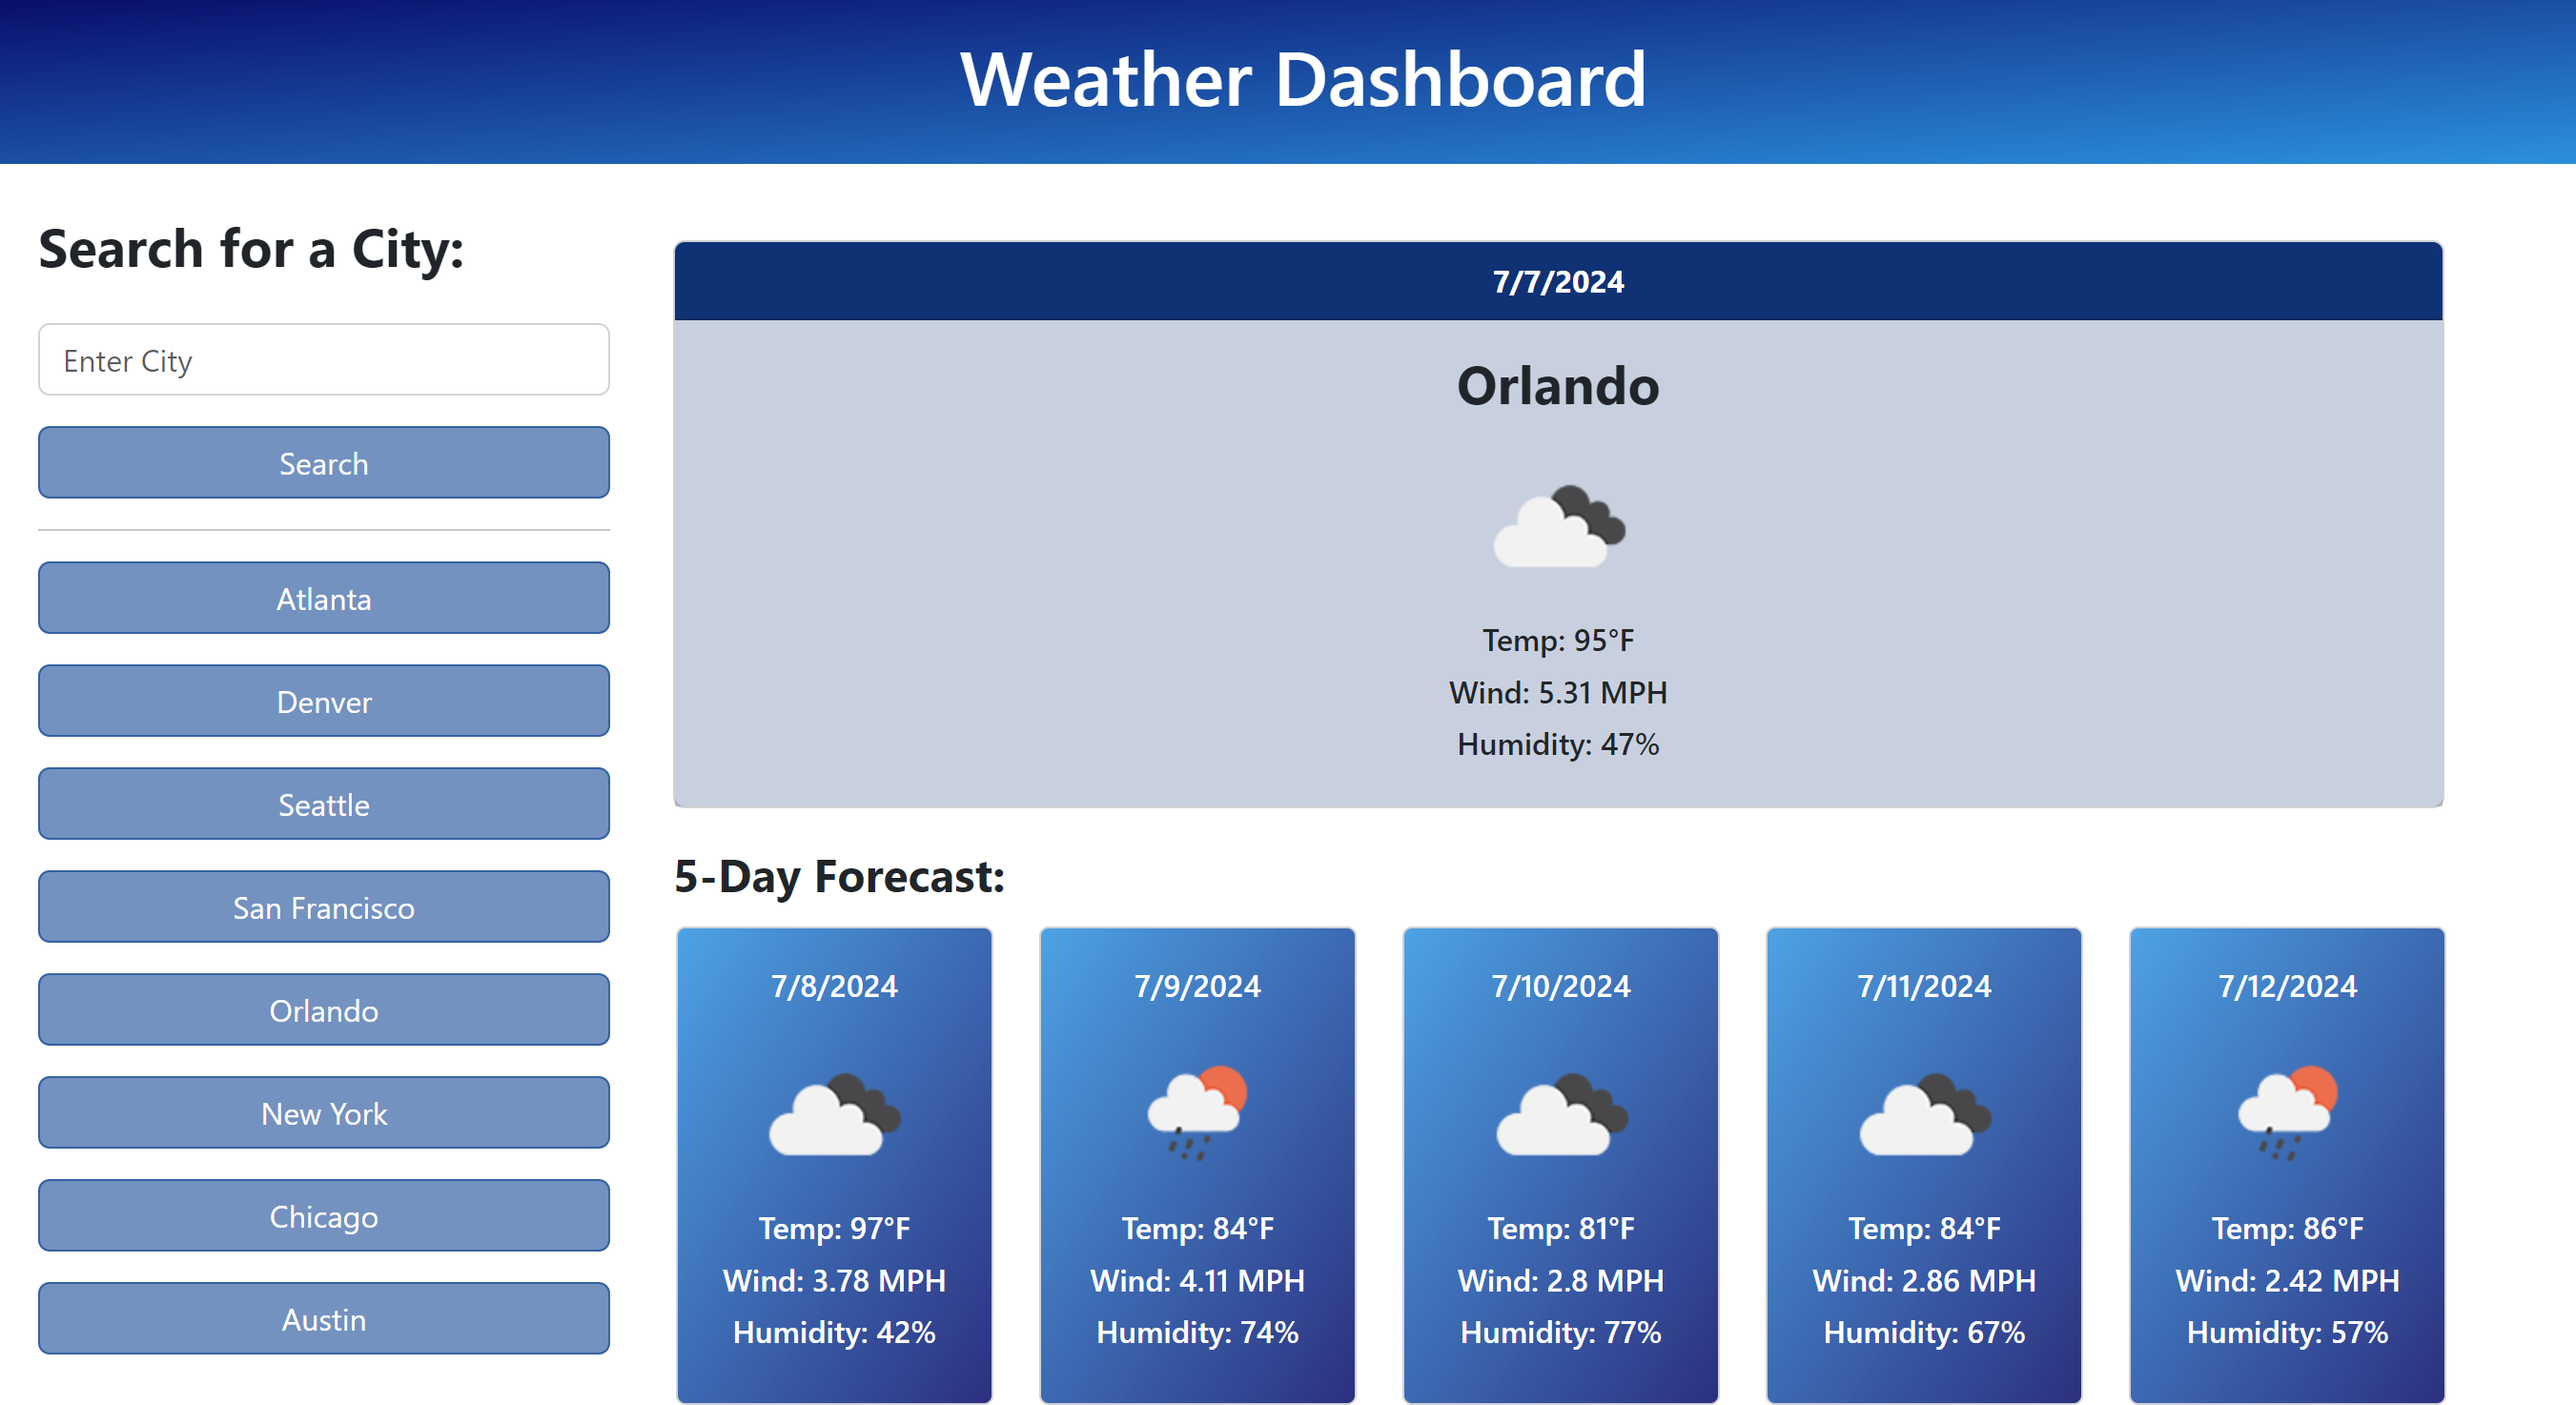
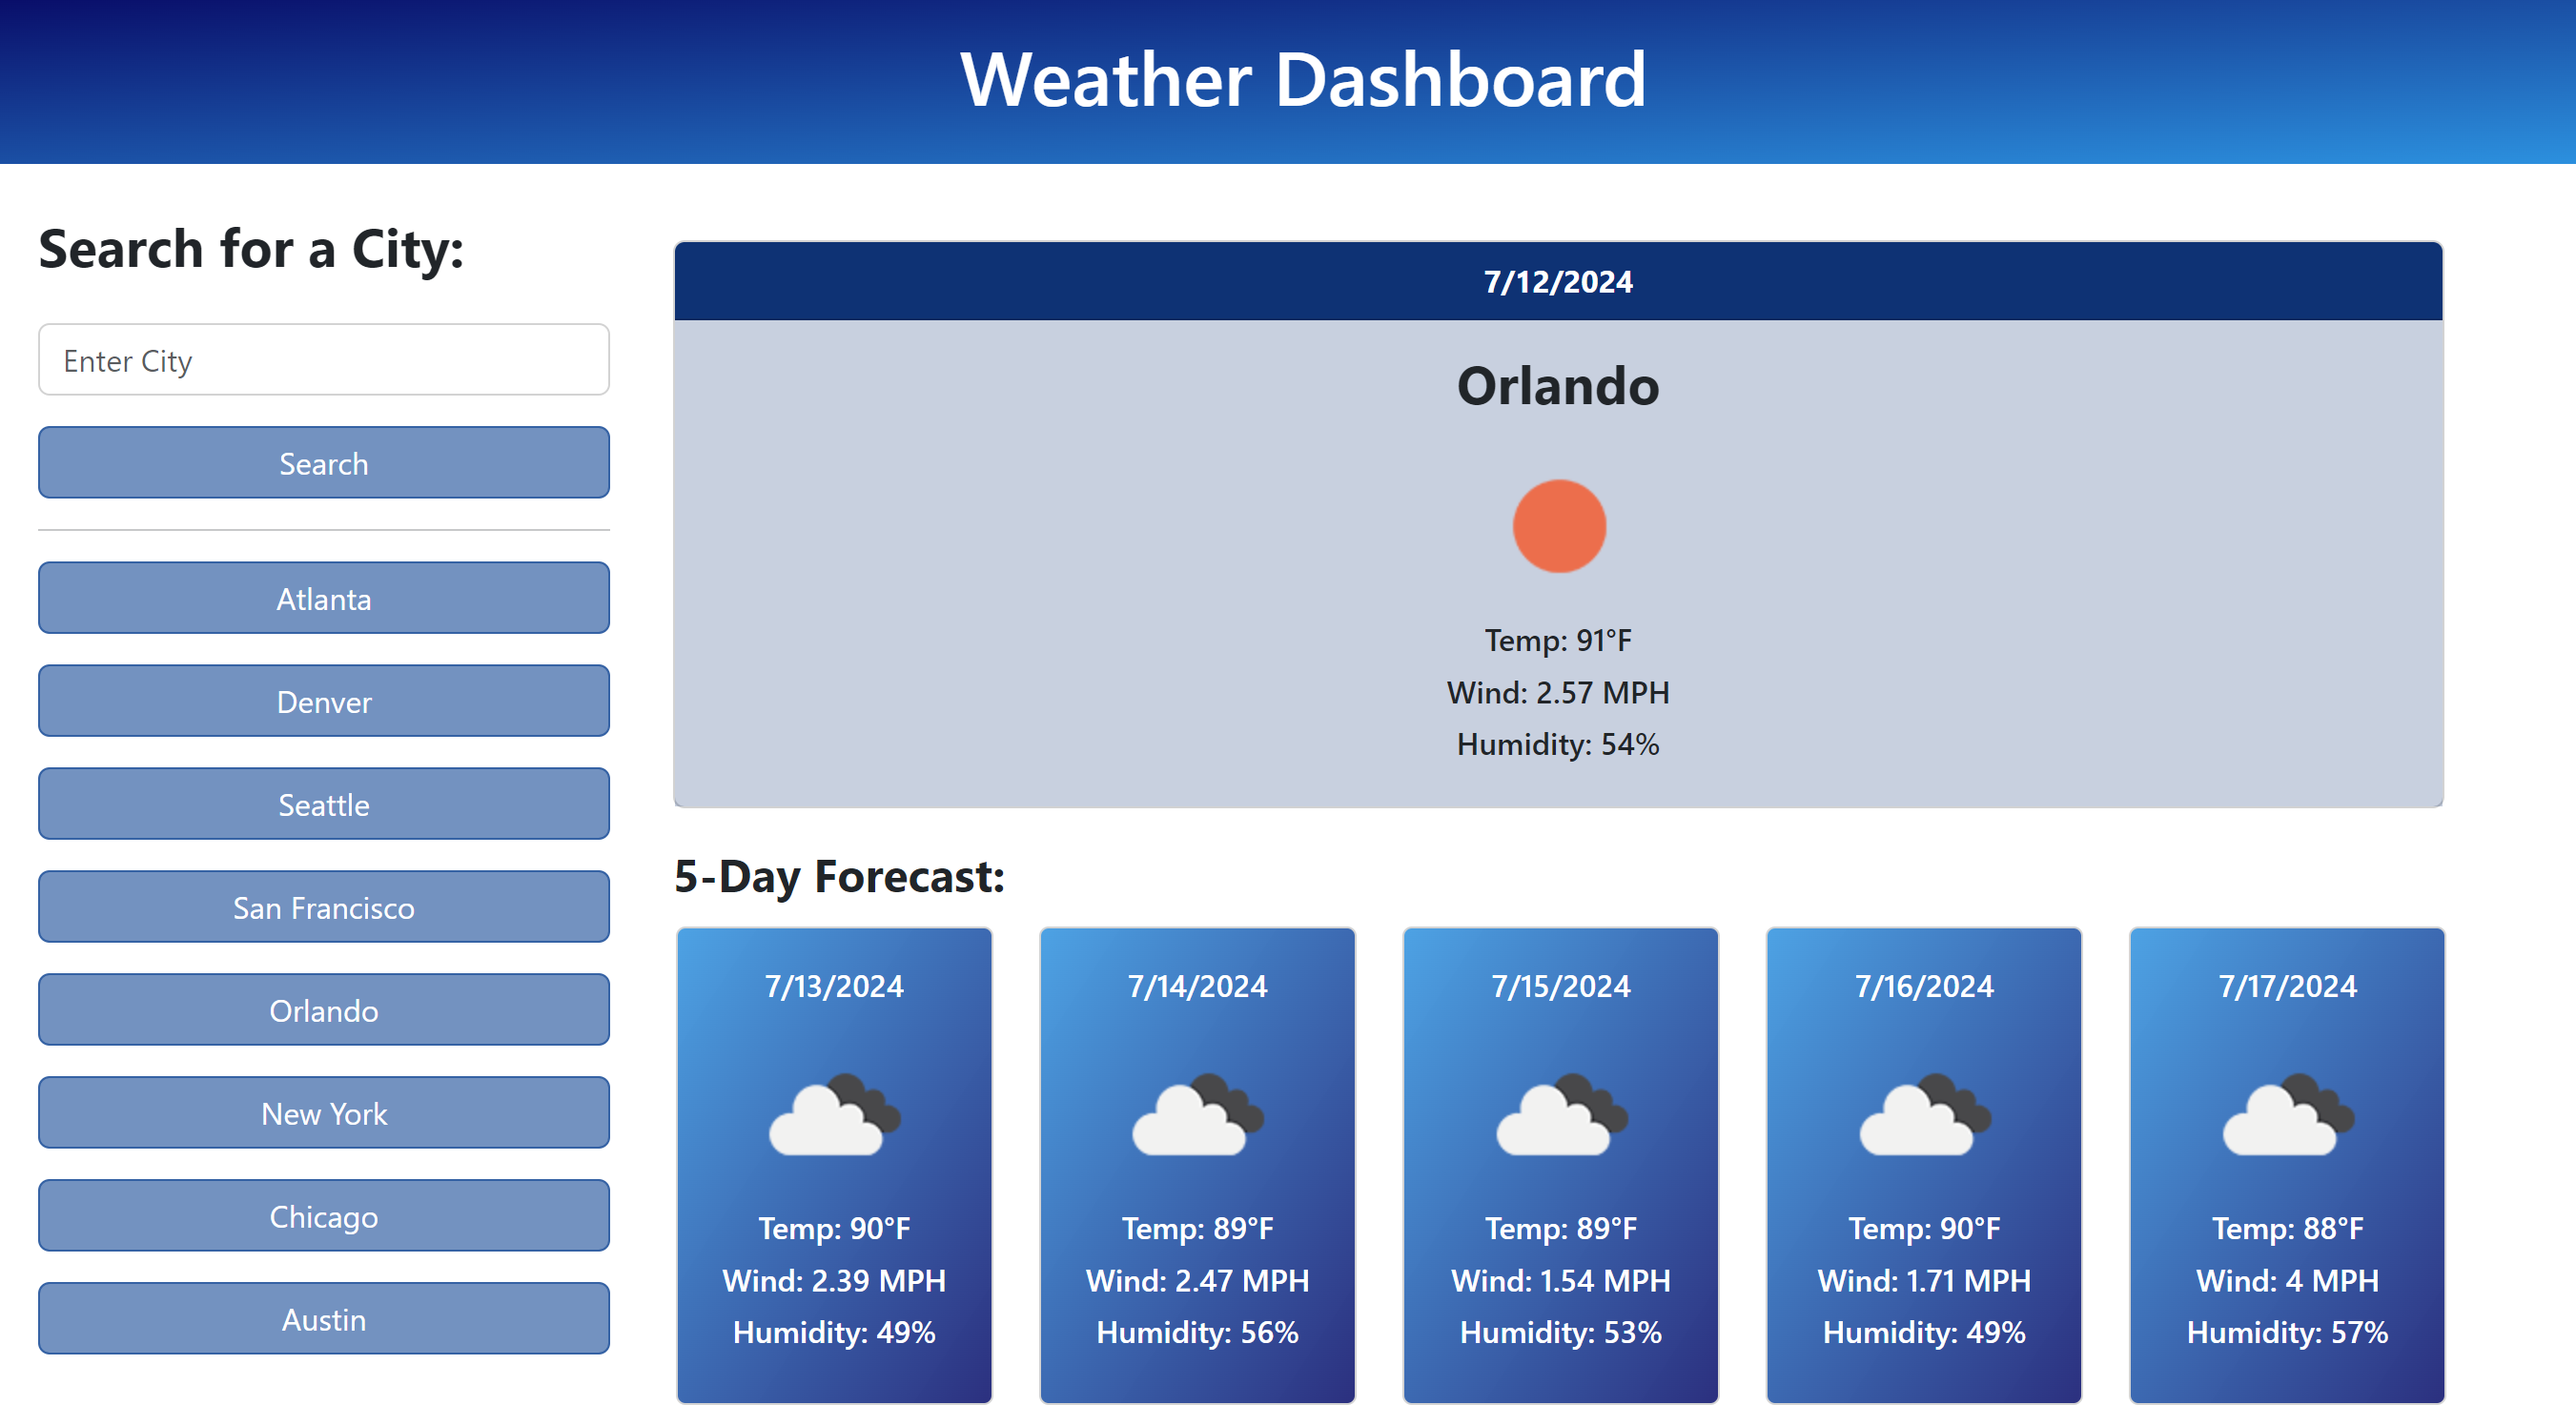
updated the README, deleted comments in index.html and changed the getCoordinates function name to currentWeatherData and changed the url being used

diff --git a/assets/js/script.js b/assets/js/script.js
@@ -8,16 +8,16 @@ const date = document.querySelector('.card-header');
 const apiKey = `c56024321501e8e5ba43555acb3aab75`;
 let city;
 
-//Get the coordinates of the cities
-const getCoordinates = async (city) => {
-    let coordinates;
-    const url = `http://api.openweathermap.org/geo/1.0/direct?q=${city}&limit=1&appid=${apiKey}`
+//Gets the current weather data of the cities
+const currentWeatherData = async (city) => {
+    let currentData ;
+    const url = `https://api.openweathermap.org/data/2.5/weather?q=${city}&appid=${apiKey}`
 
     try {
         const response = await fetch(url);
         const data = await response.json();
-        checkForDuplicateCity(data[0].name);
-        return coordinates = data[0]
+        checkForDuplicateCity(data.name);
+        return currentData = data;
     } catch (error) {
         console.error(error.message);
     }
@@ -26,17 +26,17 @@ const getCoordinates = async (city) => {
 //Adds the searched cities to local storage
 const searchHistoryInfo = (city) => {
     let searchHistory = JSON.parse(localStorage.getItem('searchHistoryCities')) || [];
-    console.log(searchHistory);
+    // console.log(searchHistory);
     let userCities = { searchedCity: city };
 
     searchHistory.push(userCities)
-    console.log(searchHistory);
+    // console.log(searchHistory);
     localStorage.setItem("searchHistoryCities", JSON.stringify(searchHistory));
 };
 
 //Displays the weather forecast for a city when that search history button is clicked
 function click(city) {
-    console.log(city)
+    // console.log(city)
     getForecast(city);
 };
 
@@ -83,20 +83,19 @@ const dailyForecastMarkdown = (data) => {
 //Uses the markdown to display the weather data
 const diplayForecast = (current, forecastArray) => {
     let dailyForecast = '';
-    const currentWeather = current.list[0];
-    const dt = currentWeather.dt;
+    const dt = current.dt;
     const currentDate = (new Date(dt * 1000)).toLocaleDateString();
-    const icon = currentWeather.weather[0].icon;
-    const temp = Math.floor(Math.round((currentWeather.main.temp - 273.15) * 9 / 5 + 32));
+    const icon = current.weather[0].icon;
+    const temp = Math.floor(Math.round((current.main.temp - 273.15) * 9 / 5 + 32));
 
     //Displays the current weather data in the card body
     date.innerText = `${currentDate}`
     displayCurrentWeather.innerHTML = `
-        <h3 class="card-title">${current.city.name}</h3>
+        <h3 class="card-title">${current.name}</h3>
         <img src="https://openweathermap.org/img/wn/${icon}@2x.png" alt="Weather Icon">
         <h6>Temp: ${temp}°F</h6>
-        <h6>Wind: ${currentWeather.wind.speed} MPH</h6>
-        <h6>Humidity: ${currentWeather.main.humidity}%</h6>
+        <h6>Wind: ${current.wind.speed} MPH</h6>
+        <h6>Humidity: ${current.main.humidity}%</h6>
         `
     //Displays the five day forecast below the card body
     forecastArray.forEach((data) => {
@@ -111,10 +110,10 @@ const diplayForecast = (current, forecastArray) => {
 
 //Gets the 5 day forecast
 const getForecast = async (city) => {
-    //Uses the coordinates to get the weather forecast
-    const coordinateData = await getCoordinates(city);
-    const lat = coordinateData.lat;
-    const lon = coordinateData.lon;
+    //Uses the coordinates to get the daily forecast
+    const currentWeather = await currentWeatherData(city);
+    const lat = currentWeather.coord.lat;
+    const lon = currentWeather.coord.lon;
 
     const url = `http://api.openweathermap.org/data/2.5/forecast?lat=${lat}&lon=${lon}&appid=${apiKey}`;
 
@@ -132,7 +131,7 @@ const getForecast = async (city) => {
             data.list[31],
             data.list[39]
         ];
-        diplayForecast(data, forecastArray);
+        diplayForecast(currentWeather, forecastArray);
     } catch (error) {
         console.error(error.message);
     }
@@ -144,7 +143,7 @@ const checkForDuplicateCity = (city) => {
     if (historyInfo === null) {
         searchHistoryInfo(city);
     } else {
-        console.log(historyInfo)
+        // console.log(historyInfo)
         const savedCity = historyInfo.find(({ searchedCity }) => searchedCity === city)
         console.log(historyInfo.find(({ searchedCity }) => searchedCity === city))
         if (savedCity === undefined) {

diff --git a/index.html b/index.html
@@ -31,16 +31,7 @@
             </form>
             <hr>
 
-            <div class="city-buttons d-grid gap-3 col-6 ">
-                <!-- <button class="atlanta btn-color btn btn-primary" type="button">Atlanta</button> -->
-                <!-- <button class="denver btn btn-primary" type="button">Denver</button>
-                <button class="seattle btn btn-primary" type="button">Seattle</button>
-                <button class="san-francisco  btn btn-primary" type="button">San Francisco</button>
-                <button class="orlando btn btn-primary" type="button">Orlando</button>
-                <button class="new-york btn btn-primary" type="button">New York</button>
-                <button class="chicago btn btn-primary" type="button">Chicago</button>
-                <button class="austin btn btn-primary" type="button">Austin</button> -->
-            </div>
+            <div class="city-buttons d-grid gap-3 col-6 "></div>
 
         </aside>
 

diff --git a/README.md b/README.md
@@ -2,17 +2,13 @@
 
 ## Description
 
-Provide a short description explaining the what, why, and how of your project. Use the following questions as a guide:
+The motivation behind this project was to create an application that allows the user to view the daily forecast for their city and other cities they choose to search for. By creating this project I was able to gain more experience with server-side APIs in order to retrieve the weather data. That data was then used to dynamically update the HTML and CSS so the weather forecast could be displayed to the user. This also allowed me to use local storage to store persistent data of the searched cities and then display them on the search history.
 
-- What was your motivation?
-- Why did you build this project? (Note: the answer is not "Because it was a homework assignment.")
-- What problem does it solve?
-- What did you learn?
 
 ## Usage
 
-Provide instructions and examples for use. Include screenshots as needed.
+After the user inputs a city into the search field, they are presented with the current weather conditions and a 5-day forecast. Once the weather conditions are displayed, the user is able to see the city name and date along with the temperature, humidity, and wind speed. That city is also added to the search history on the left-hand side. If the user clicks on a city in the search history, they are presented with that the forecast for that city.
 
-To add a screenshot, create an `assets/images` folder in your repository and upload your screenshot to it. Then, using the relative filepath, add it to your README using the following syntax:
+
 
 ![alt text](assets/images/screenshot.png)
